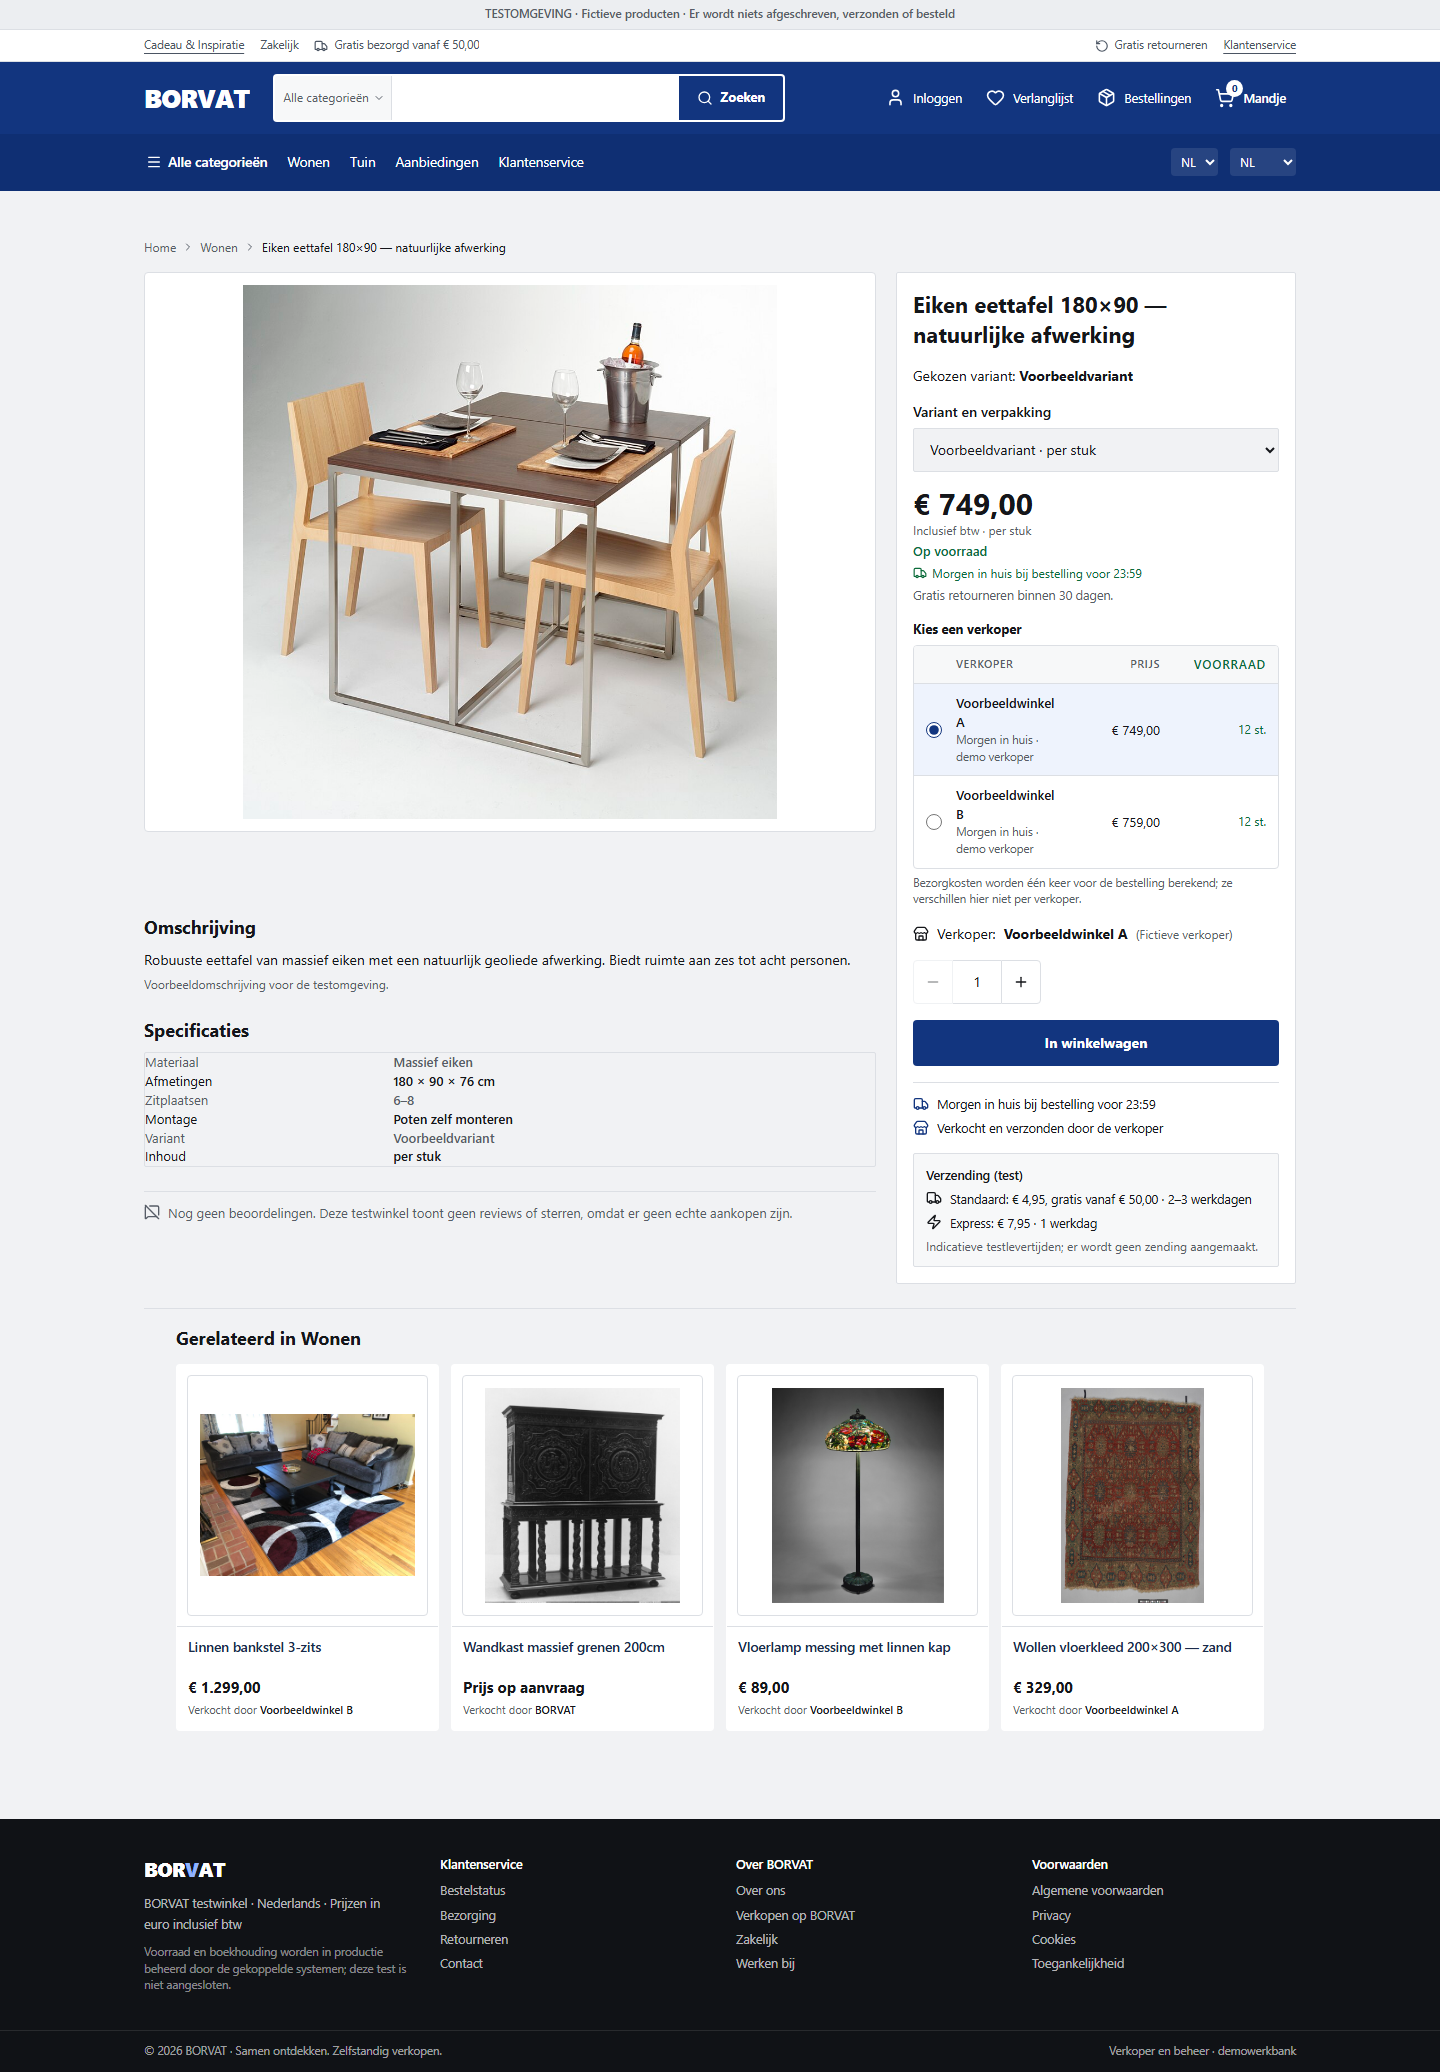
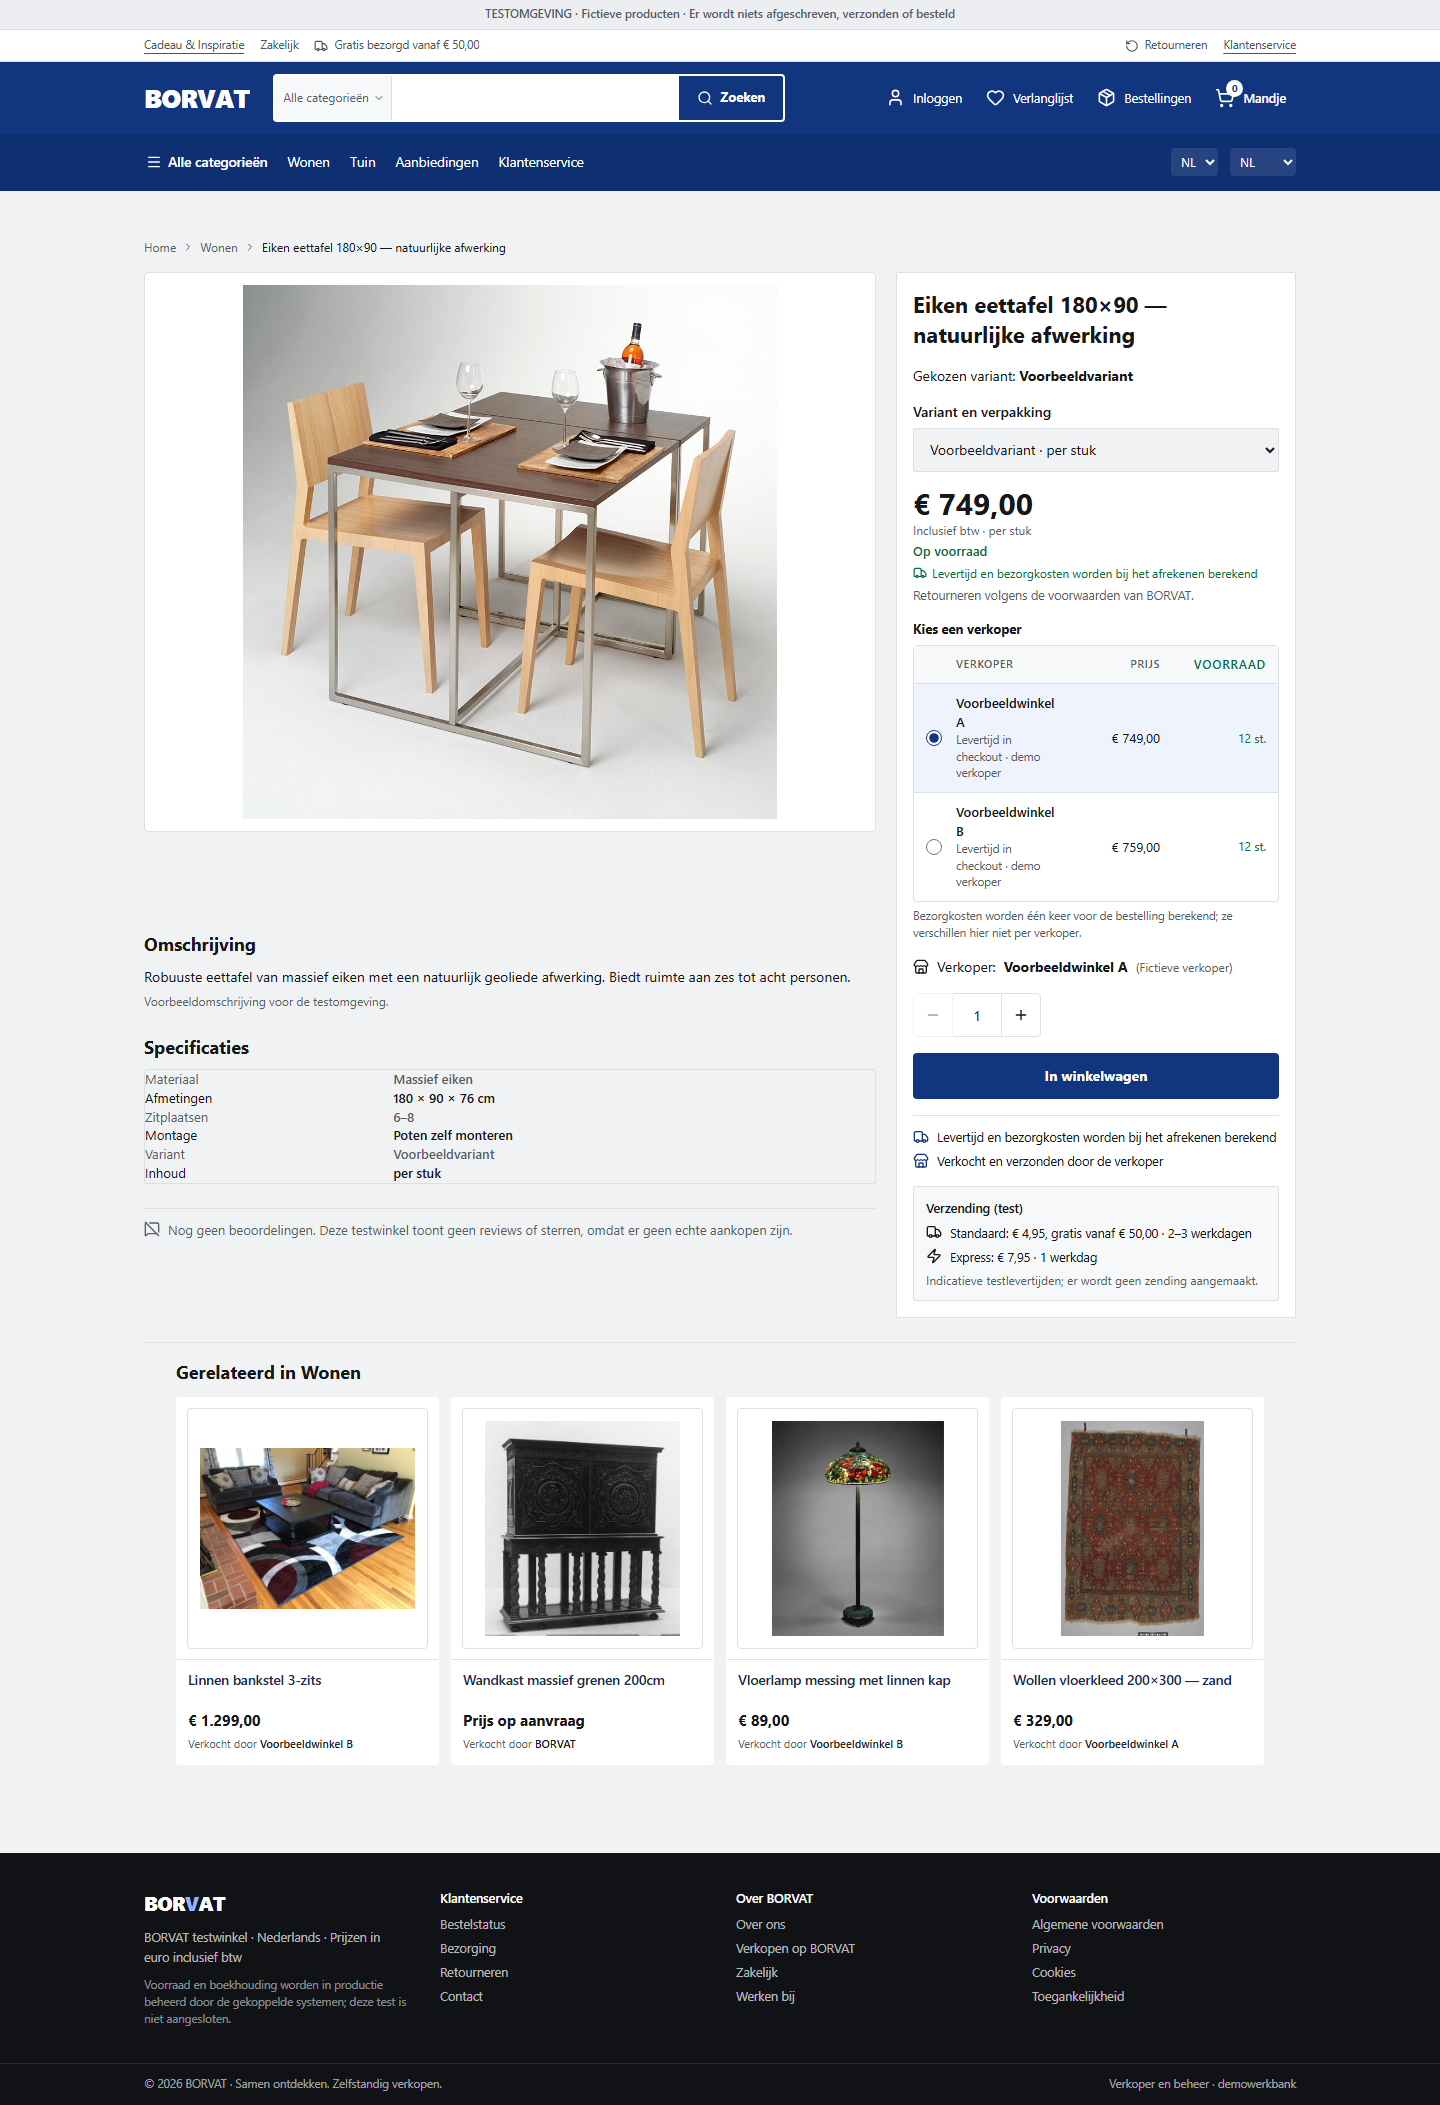
docs(design): record the delivery-claim correction and refresh the gate evidence

diff --git a/docs/design/BOL-PARITY-2026-11-03.md b/docs/design/BOL-PARITY-2026-11-03.md
@@ -70,6 +70,12 @@ Two deliberate deviations:
 - `product-view.tsx`: seller comparison table (seller · price · stock) and a related-products row.
 - `routes/index.tsx`: preload for the hero image.
 
+Copy correction found while reviewing the listing capture: cards promised **"Morgen in huis"** and the
+header promised free 30-day returns. Neither is backed by the app — the shipping model computes cost at
+checkout and there is no returns flow. Cards now read *Levertijd in checkout*, the strip reads
+*Retourneren* without the free/days claim, and the same wording was fixed on the legacy PDP route and the
+landing route. The demo label stays, but no delivery date is promised anywhere.
+
 ## 5. Artifacts
 
 | Artifact | Path |
@@ -93,6 +99,7 @@ Two deliberate deviations:
 | Mega menu | "Alle categorieën" is a link, not a panel | only two real categories exist; a panel would be empty |
 | Test banner | 30 px strip above the header | demo data must be labelled |
 | Search x position | 273 vs 343 | shorter wordmark block; width and height match |
+| Delivery messaging | reference promises next-day | ours states the lead time is calculated at checkout, because no carrier data exists |
 
 ## 7. Preview
 
